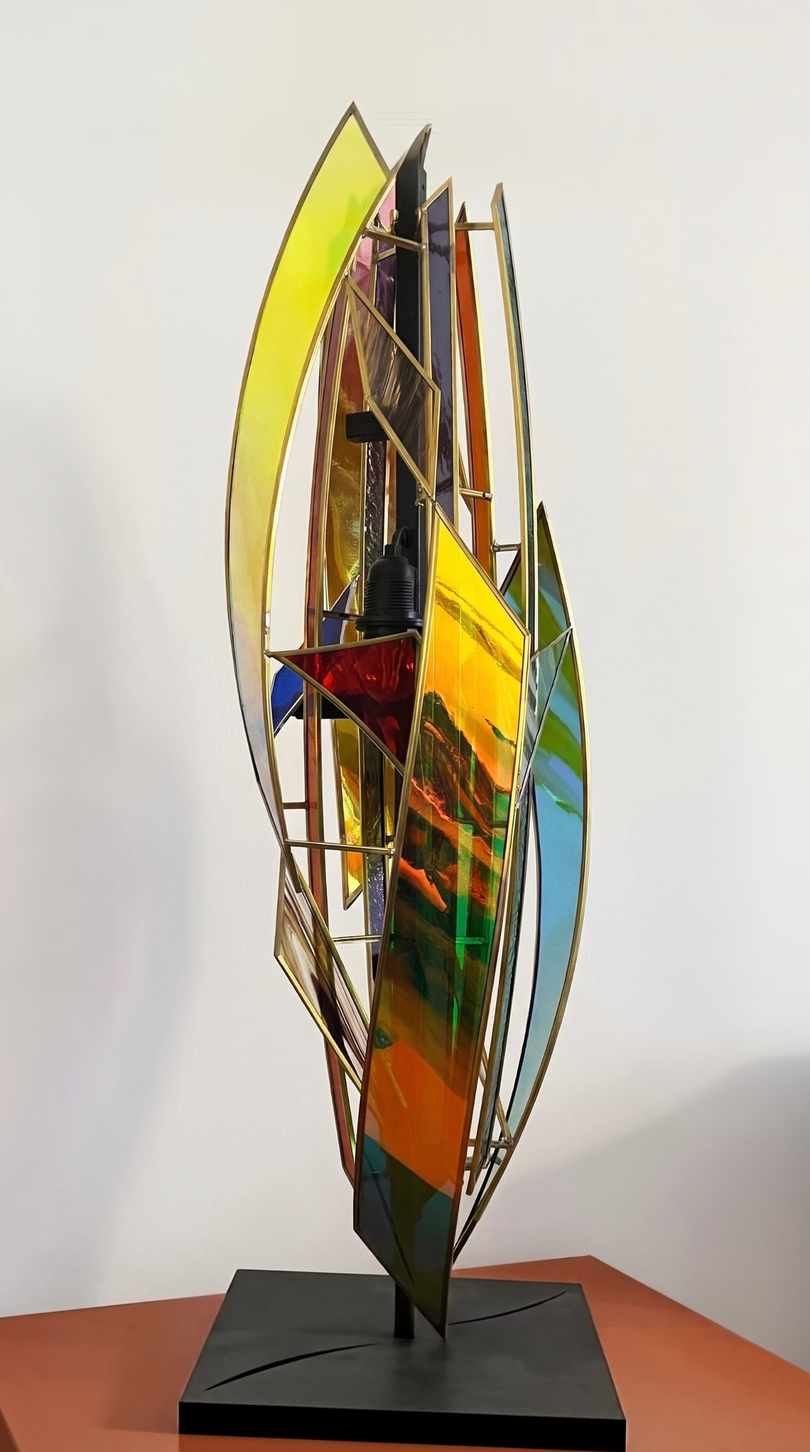
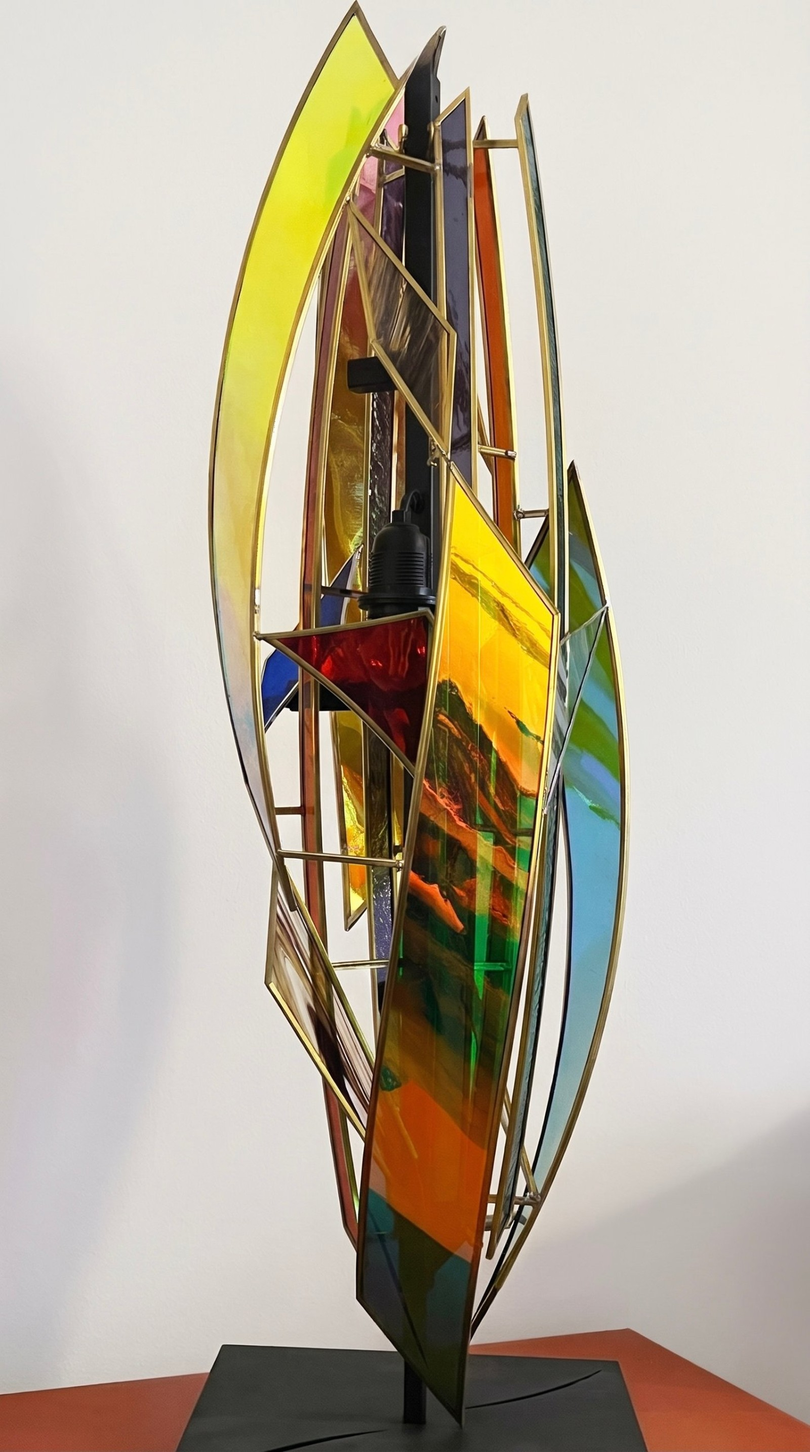
Fish Lamp: Arthi's new higher-quality photo (1438x2576), image version v3
Claude-Session: https://claude.ai/code/session_01H5rr4vyQfECm49aUQdYU3c

diff --git a/de/gallery/fish-lamp/index.html b/de/gallery/fish-lamp/index.html
@@ -19,7 +19,7 @@
     <meta property="og:title" content="Fish Lamp — Glaskunst von Arthemii Ionaere">
     <meta property="og:description" content="Eine Lampenskulptur aus dem Projekt Glass Parts Sculpting: farbiges Glas und Glas mit dichroitischer Folie auf einem Rahmen montiert, mit zwei…">
     <meta property="og:url" content="https://ionaere.com/de/gallery/fish-lamp/">
-    <meta property="og:image" content="https://ionaere.com/img/opt/2024-05-Screenshot-2024-05-13-at-21.58.20-1600.jpg?v=2">
+    <meta property="og:image" content="https://ionaere.com/img/opt/2024-05-Screenshot-2024-05-13-at-21.58.20-1600.jpg?v=3">
     <meta name="twitter:card" content="summary_large_image">
     <link rel="preconnect" href="https://fonts.googleapis.com">
     <link rel="preconnect" href="https://fonts.gstatic.com" crossorigin>
@@ -36,7 +36,7 @@
         }
     </style>
     <script type="application/ld+json">
-{"@context": "https://schema.org", "@type": "VisualArtwork", "name": "Fish Lamp", "url": "https://ionaere.com/de/gallery/fish-lamp/", "image": "https://ionaere.com/img/opt/2024-05-Screenshot-2024-05-13-at-21.58.20-1600.jpg?v=2", "description": "Eine Lampenskulptur aus dem Projekt Glass Parts Sculpting: farbiges Glas und Glas mit dichroitischer Folie auf einem Rahmen montiert, mit zwei eingebauten Lampen. Sie kann senkrecht stehen, waagerecht liegen oder an der Wand montiert werden.", "artform": "Stained glass", "artMedium": "Glass", "creator": {"@type": "Person", "@id": "https://ionaere.com/#artist", "name": "Arthemii Ionaere", "url": "https://ionaere.com/"}}
+{"@context": "https://schema.org", "@type": "VisualArtwork", "name": "Fish Lamp", "url": "https://ionaere.com/de/gallery/fish-lamp/", "image": "https://ionaere.com/img/opt/2024-05-Screenshot-2024-05-13-at-21.58.20-1600.jpg?v=3", "description": "Eine Lampenskulptur aus dem Projekt Glass Parts Sculpting: farbiges Glas und Glas mit dichroitischer Folie auf einem Rahmen montiert, mit zwei eingebauten Lampen. Sie kann senkrecht stehen, waagerecht liegen oder an der Wand montiert werden.", "artform": "Stained glass", "artMedium": "Glass", "creator": {"@type": "Person", "@id": "https://ionaere.com/#artist", "name": "Arthemii Ionaere", "url": "https://ionaere.com/"}}
     </script>
 </head>
 <body>
@@ -88,7 +88,7 @@
             <div class="container" style="max-width:1000px">
                 <a href="../" style="font-size:0.875rem;color:var(--text-secondary);display:inline-block;margin-bottom:var(--spacing-md)">← Zurück zur Galerie</a>
                 <div class="photo-view" style="border-radius:12px;overflow:hidden;margin-bottom:var(--spacing-md);background:var(--bg-alt)">
-                    <picture><source type="image/webp" srcset="../../../img/opt/2024-05-Screenshot-2024-05-13-at-21.58.20-800.webp?v=2 800w, ../../../img/opt/2024-05-Screenshot-2024-05-13-at-21.58.20-1600.webp?v=2 1600w, ../../../img/opt/2024-05-Screenshot-2024-05-13-at-21.58.20-2400.webp?v=2 2400w" sizes="(max-width: 1000px) 100vw, 1000px"><img src="../../../img/opt/2024-05-Screenshot-2024-05-13-at-21.58.20-1600.jpg?v=2" alt="Fish Lamp — Arthemii Ionaere" style="width:100%;display:block"></picture>
+                    <picture><source type="image/webp" srcset="../../../img/opt/2024-05-Screenshot-2024-05-13-at-21.58.20-800.webp?v=3 800w, ../../../img/opt/2024-05-Screenshot-2024-05-13-at-21.58.20-1600.webp?v=3 1600w, ../../../img/opt/2024-05-Screenshot-2024-05-13-at-21.58.20-2400.webp?v=3 2400w" sizes="(max-width: 1000px) 100vw, 1000px"><img src="../../../img/opt/2024-05-Screenshot-2024-05-13-at-21.58.20-1600.jpg?v=3" alt="Fish Lamp — Arthemii Ionaere" style="width:100%;display:block"></picture>
                     <a class="photo-view__arrow photo-view__arrow--prev" href="../huerrytop-sculpture/" rel="prev" aria-label="Previous photo: Glass Parts Nr. 2"><svg viewBox="0 0 24 24" aria-hidden="true"><path d="M15 5l-7 7 7 7"/></svg></a>
                     <a class="photo-view__arrow photo-view__arrow--next" href="../exhibition-piece/" rel="next" aria-label="Next photo: Epsilon Y"><svg viewBox="0 0 24 24" aria-hidden="true"><path d="M9 5l7 7-7 7"/></svg></a>
                 </div>

diff --git a/it/gallery/fish-lamp/index.html b/it/gallery/fish-lamp/index.html
@@ -19,7 +19,7 @@
     <meta property="og:title" content="Fish Lamp — Vetrata artistica di Arthemii Ionaere">
     <meta property="og:description" content="Una scultura-lampada del progetto Glass Parts Sculpting: vetro colorato e vetro con pellicola dicroica montati su un&#x27;unica struttura, con due lampade…">
     <meta property="og:url" content="https://ionaere.com/it/gallery/fish-lamp/">
-    <meta property="og:image" content="https://ionaere.com/img/opt/2024-05-Screenshot-2024-05-13-at-21.58.20-1600.jpg?v=2">
+    <meta property="og:image" content="https://ionaere.com/img/opt/2024-05-Screenshot-2024-05-13-at-21.58.20-1600.jpg?v=3">
     <meta name="twitter:card" content="summary_large_image">
     <link rel="preconnect" href="https://fonts.googleapis.com">
     <link rel="preconnect" href="https://fonts.gstatic.com" crossorigin>
@@ -36,7 +36,7 @@
         }
     </style>
     <script type="application/ld+json">
-{"@context": "https://schema.org", "@type": "VisualArtwork", "name": "Fish Lamp", "url": "https://ionaere.com/it/gallery/fish-lamp/", "image": "https://ionaere.com/img/opt/2024-05-Screenshot-2024-05-13-at-21.58.20-1600.jpg?v=2", "description": "Una scultura-lampada del progetto Glass Parts Sculpting: vetro colorato e vetro con pellicola dicroica montati su un'unica struttura, con due lampade integrate. Può stare in verticale, in orizzontale o essere fissata a parete.", "artform": "Stained glass", "artMedium": "Glass", "creator": {"@type": "Person", "@id": "https://ionaere.com/#artist", "name": "Arthemii Ionaere", "url": "https://ionaere.com/"}}
+{"@context": "https://schema.org", "@type": "VisualArtwork", "name": "Fish Lamp", "url": "https://ionaere.com/it/gallery/fish-lamp/", "image": "https://ionaere.com/img/opt/2024-05-Screenshot-2024-05-13-at-21.58.20-1600.jpg?v=3", "description": "Una scultura-lampada del progetto Glass Parts Sculpting: vetro colorato e vetro con pellicola dicroica montati su un'unica struttura, con due lampade integrate. Può stare in verticale, in orizzontale o essere fissata a parete.", "artform": "Stained glass", "artMedium": "Glass", "creator": {"@type": "Person", "@id": "https://ionaere.com/#artist", "name": "Arthemii Ionaere", "url": "https://ionaere.com/"}}
     </script>
 </head>
 <body>
@@ -88,7 +88,7 @@
             <div class="container" style="max-width:1000px">
                 <a href="../" style="font-size:0.875rem;color:var(--text-secondary);display:inline-block;margin-bottom:var(--spacing-md)">← Torna alla galleria</a>
                 <div class="photo-view" style="border-radius:12px;overflow:hidden;margin-bottom:var(--spacing-md);background:var(--bg-alt)">
-                    <picture><source type="image/webp" srcset="../../../img/opt/2024-05-Screenshot-2024-05-13-at-21.58.20-800.webp?v=2 800w, ../../../img/opt/2024-05-Screenshot-2024-05-13-at-21.58.20-1600.webp?v=2 1600w, ../../../img/opt/2024-05-Screenshot-2024-05-13-at-21.58.20-2400.webp?v=2 2400w" sizes="(max-width: 1000px) 100vw, 1000px"><img src="../../../img/opt/2024-05-Screenshot-2024-05-13-at-21.58.20-1600.jpg?v=2" alt="Fish Lamp — Arthemii Ionaere" style="width:100%;display:block"></picture>
+                    <picture><source type="image/webp" srcset="../../../img/opt/2024-05-Screenshot-2024-05-13-at-21.58.20-800.webp?v=3 800w, ../../../img/opt/2024-05-Screenshot-2024-05-13-at-21.58.20-1600.webp?v=3 1600w, ../../../img/opt/2024-05-Screenshot-2024-05-13-at-21.58.20-2400.webp?v=3 2400w" sizes="(max-width: 1000px) 100vw, 1000px"><img src="../../../img/opt/2024-05-Screenshot-2024-05-13-at-21.58.20-1600.jpg?v=3" alt="Fish Lamp — Arthemii Ionaere" style="width:100%;display:block"></picture>
                     <a class="photo-view__arrow photo-view__arrow--prev" href="../huerrytop-sculpture/" rel="prev" aria-label="Previous photo: Glass Parts n. 2"><svg viewBox="0 0 24 24" aria-hidden="true"><path d="M15 5l-7 7 7 7"/></svg></a>
                     <a class="photo-view__arrow photo-view__arrow--next" href="../exhibition-piece/" rel="next" aria-label="Next photo: Epsilon Y"><svg viewBox="0 0 24 24" aria-hidden="true"><path d="M9 5l7 7-7 7"/></svg></a>
                 </div>

diff --git a/es/gallery/fish-lamp/index.html b/es/gallery/fish-lamp/index.html
@@ -19,7 +19,7 @@
     <meta property="og:title" content="Fish Lamp — Vitral de Arthemii Ionaere">
     <meta property="og:description" content="Una escultura-lámpara del proyecto Glass Parts Sculpting: vidrio de color y vidrio con película dicroica montados sobre una estructura, con dos…">
     <meta property="og:url" content="https://ionaere.com/es/gallery/fish-lamp/">
-    <meta property="og:image" content="https://ionaere.com/img/opt/2024-05-Screenshot-2024-05-13-at-21.58.20-1600.jpg?v=2">
+    <meta property="og:image" content="https://ionaere.com/img/opt/2024-05-Screenshot-2024-05-13-at-21.58.20-1600.jpg?v=3">
     <meta name="twitter:card" content="summary_large_image">
     <link rel="preconnect" href="https://fonts.googleapis.com">
     <link rel="preconnect" href="https://fonts.gstatic.com" crossorigin>
@@ -36,7 +36,7 @@
         }
     </style>
     <script type="application/ld+json">
-{"@context": "https://schema.org", "@type": "VisualArtwork", "name": "Fish Lamp", "url": "https://ionaere.com/es/gallery/fish-lamp/", "image": "https://ionaere.com/img/opt/2024-05-Screenshot-2024-05-13-at-21.58.20-1600.jpg?v=2", "description": "Una escultura-lámpara del proyecto Glass Parts Sculpting: vidrio de color y vidrio con película dicroica montados sobre una estructura, con dos lámparas integradas. Puede colocarse en vertical, en horizontal o montarse en la pared.", "artform": "Stained glass", "artMedium": "Glass", "creator": {"@type": "Person", "@id": "https://ionaere.com/#artist", "name": "Arthemii Ionaere", "url": "https://ionaere.com/"}}
+{"@context": "https://schema.org", "@type": "VisualArtwork", "name": "Fish Lamp", "url": "https://ionaere.com/es/gallery/fish-lamp/", "image": "https://ionaere.com/img/opt/2024-05-Screenshot-2024-05-13-at-21.58.20-1600.jpg?v=3", "description": "Una escultura-lámpara del proyecto Glass Parts Sculpting: vidrio de color y vidrio con película dicroica montados sobre una estructura, con dos lámparas integradas. Puede colocarse en vertical, en horizontal o montarse en la pared.", "artform": "Stained glass", "artMedium": "Glass", "creator": {"@type": "Person", "@id": "https://ionaere.com/#artist", "name": "Arthemii Ionaere", "url": "https://ionaere.com/"}}
     </script>
 </head>
 <body>
@@ -88,7 +88,7 @@
             <div class="container" style="max-width:1000px">
                 <a href="../" style="font-size:0.875rem;color:var(--text-secondary);display:inline-block;margin-bottom:var(--spacing-md)">← Volver a la galería</a>
                 <div class="photo-view" style="border-radius:12px;overflow:hidden;margin-bottom:var(--spacing-md);background:var(--bg-alt)">
-                    <picture><source type="image/webp" srcset="../../../img/opt/2024-05-Screenshot-2024-05-13-at-21.58.20-800.webp?v=2 800w, ../../../img/opt/2024-05-Screenshot-2024-05-13-at-21.58.20-1600.webp?v=2 1600w, ../../../img/opt/2024-05-Screenshot-2024-05-13-at-21.58.20-2400.webp?v=2 2400w" sizes="(max-width: 1000px) 100vw, 1000px"><img src="../../../img/opt/2024-05-Screenshot-2024-05-13-at-21.58.20-1600.jpg?v=2" alt="Fish Lamp — Arthemii Ionaere" style="width:100%;display:block"></picture>
+                    <picture><source type="image/webp" srcset="../../../img/opt/2024-05-Screenshot-2024-05-13-at-21.58.20-800.webp?v=3 800w, ../../../img/opt/2024-05-Screenshot-2024-05-13-at-21.58.20-1600.webp?v=3 1600w, ../../../img/opt/2024-05-Screenshot-2024-05-13-at-21.58.20-2400.webp?v=3 2400w" sizes="(max-width: 1000px) 100vw, 1000px"><img src="../../../img/opt/2024-05-Screenshot-2024-05-13-at-21.58.20-1600.jpg?v=3" alt="Fish Lamp — Arthemii Ionaere" style="width:100%;display:block"></picture>
                     <a class="photo-view__arrow photo-view__arrow--prev" href="../huerrytop-sculpture/" rel="prev" aria-label="Previous photo: Glass Parts n.º 2"><svg viewBox="0 0 24 24" aria-hidden="true"><path d="M15 5l-7 7 7 7"/></svg></a>
                     <a class="photo-view__arrow photo-view__arrow--next" href="../exhibition-piece/" rel="next" aria-label="Next photo: Epsilon Y"><svg viewBox="0 0 24 24" aria-hidden="true"><path d="M9 5l7 7-7 7"/></svg></a>
                 </div>

diff --git a/fr/gallery/fish-lamp/index.html b/fr/gallery/fish-lamp/index.html
@@ -19,7 +19,7 @@
     <meta property="og:title" content="Fish Lamp — Vitrail d&#x27;Arthemii Ionaere">
     <meta property="og:description" content="Une sculpture-lampe du projet Glass Parts Sculpting : verre coloré et verre à film dichroïque assemblés sur une structure, avec deux lampes…">
     <meta property="og:url" content="https://ionaere.com/fr/gallery/fish-lamp/">
-    <meta property="og:image" content="https://ionaere.com/img/opt/2024-05-Screenshot-2024-05-13-at-21.58.20-1600.jpg?v=2">
+    <meta property="og:image" content="https://ionaere.com/img/opt/2024-05-Screenshot-2024-05-13-at-21.58.20-1600.jpg?v=3">
     <meta name="twitter:card" content="summary_large_image">
     <link rel="preconnect" href="https://fonts.googleapis.com">
     <link rel="preconnect" href="https://fonts.gstatic.com" crossorigin>
@@ -36,7 +36,7 @@
         }
     </style>
     <script type="application/ld+json">
-{"@context": "https://schema.org", "@type": "VisualArtwork", "name": "Fish Lamp", "url": "https://ionaere.com/fr/gallery/fish-lamp/", "image": "https://ionaere.com/img/opt/2024-05-Screenshot-2024-05-13-at-21.58.20-1600.jpg?v=2", "description": "Une sculpture-lampe du projet Glass Parts Sculpting : verre coloré et verre à film dichroïque assemblés sur une structure, avec deux lampes intégrées. Elle peut être posée verticalement, horizontalement ou fixée au mur.", "artform": "Stained glass", "artMedium": "Glass", "creator": {"@type": "Person", "@id": "https://ionaere.com/#artist", "name": "Arthemii Ionaere", "url": "https://ionaere.com/"}}
+{"@context": "https://schema.org", "@type": "VisualArtwork", "name": "Fish Lamp", "url": "https://ionaere.com/fr/gallery/fish-lamp/", "image": "https://ionaere.com/img/opt/2024-05-Screenshot-2024-05-13-at-21.58.20-1600.jpg?v=3", "description": "Une sculpture-lampe du projet Glass Parts Sculpting : verre coloré et verre à film dichroïque assemblés sur une structure, avec deux lampes intégrées. Elle peut être posée verticalement, horizontalement ou fixée au mur.", "artform": "Stained glass", "artMedium": "Glass", "creator": {"@type": "Person", "@id": "https://ionaere.com/#artist", "name": "Arthemii Ionaere", "url": "https://ionaere.com/"}}
     </script>
 </head>
 <body>
@@ -88,7 +88,7 @@
             <div class="container" style="max-width:1000px">
                 <a href="../" style="font-size:0.875rem;color:var(--text-secondary);display:inline-block;margin-bottom:var(--spacing-md)">← Retour à la galerie</a>
                 <div class="photo-view" style="border-radius:12px;overflow:hidden;margin-bottom:var(--spacing-md);background:var(--bg-alt)">
-                    <picture><source type="image/webp" srcset="../../../img/opt/2024-05-Screenshot-2024-05-13-at-21.58.20-800.webp?v=2 800w, ../../../img/opt/2024-05-Screenshot-2024-05-13-at-21.58.20-1600.webp?v=2 1600w, ../../../img/opt/2024-05-Screenshot-2024-05-13-at-21.58.20-2400.webp?v=2 2400w" sizes="(max-width: 1000px) 100vw, 1000px"><img src="../../../img/opt/2024-05-Screenshot-2024-05-13-at-21.58.20-1600.jpg?v=2" alt="Fish Lamp — Arthemii Ionaere" style="width:100%;display:block"></picture>
+                    <picture><source type="image/webp" srcset="../../../img/opt/2024-05-Screenshot-2024-05-13-at-21.58.20-800.webp?v=3 800w, ../../../img/opt/2024-05-Screenshot-2024-05-13-at-21.58.20-1600.webp?v=3 1600w, ../../../img/opt/2024-05-Screenshot-2024-05-13-at-21.58.20-2400.webp?v=3 2400w" sizes="(max-width: 1000px) 100vw, 1000px"><img src="../../../img/opt/2024-05-Screenshot-2024-05-13-at-21.58.20-1600.jpg?v=3" alt="Fish Lamp — Arthemii Ionaere" style="width:100%;display:block"></picture>
                     <a class="photo-view__arrow photo-view__arrow--prev" href="../huerrytop-sculpture/" rel="prev" aria-label="Previous photo: Glass Parts n° 2"><svg viewBox="0 0 24 24" aria-hidden="true"><path d="M15 5l-7 7 7 7"/></svg></a>
                     <a class="photo-view__arrow photo-view__arrow--next" href="../exhibition-piece/" rel="next" aria-label="Next photo: Epsilon Y"><svg viewBox="0 0 24 24" aria-hidden="true"><path d="M9 5l7 7-7 7"/></svg></a>
                 </div>

diff --git a/gallery/fish-lamp/index.html b/gallery/fish-lamp/index.html
@@ -19,7 +19,7 @@
     <meta property="og:title" content="Fish Lamp — Stained Glass Art by Arthemii Ionaere">
     <meta property="og:description" content="A lamp sculpture from the Glass Parts Sculpting project: coloured glass and glass with dichroic film assembled on one frame, with two built-in lamps.…">
     <meta property="og:url" content="https://ionaere.com/gallery/fish-lamp/">
-    <meta property="og:image" content="https://ionaere.com/img/opt/2024-05-Screenshot-2024-05-13-at-21.58.20-1600.jpg?v=2">
+    <meta property="og:image" content="https://ionaere.com/img/opt/2024-05-Screenshot-2024-05-13-at-21.58.20-1600.jpg?v=3">
     <meta name="twitter:card" content="summary_large_image">
     <link rel="preconnect" href="https://fonts.googleapis.com">
     <link rel="preconnect" href="https://fonts.gstatic.com" crossorigin>
@@ -36,7 +36,7 @@
         }
     </style>
     <script type="application/ld+json">
-{"@context": "https://schema.org", "@type": "VisualArtwork", "name": "Fish Lamp", "url": "https://ionaere.com/gallery/fish-lamp/", "image": "https://ionaere.com/img/opt/2024-05-Screenshot-2024-05-13-at-21.58.20-1600.jpg?v=2", "description": "A lamp sculpture from the Glass Parts Sculpting project: coloured glass and glass with dichroic film assembled on one frame, with two built-in lamps. It can stand upright, lie horizontally or be mounted on a wall.", "artform": "Stained glass", "artMedium": "Glass", "creator": {"@type": "Person", "@id": "https://ionaere.com/#artist", "name": "Arthemii Ionaere", "url": "https://ionaere.com/"}}
+{"@context": "https://schema.org", "@type": "VisualArtwork", "name": "Fish Lamp", "url": "https://ionaere.com/gallery/fish-lamp/", "image": "https://ionaere.com/img/opt/2024-05-Screenshot-2024-05-13-at-21.58.20-1600.jpg?v=3", "description": "A lamp sculpture from the Glass Parts Sculpting project: coloured glass and glass with dichroic film assembled on one frame, with two built-in lamps. It can stand upright, lie horizontally or be mounted on a wall.", "artform": "Stained glass", "artMedium": "Glass", "creator": {"@type": "Person", "@id": "https://ionaere.com/#artist", "name": "Arthemii Ionaere", "url": "https://ionaere.com/"}}
     </script>
 </head>
 <body>
@@ -88,7 +88,7 @@
             <div class="container" style="max-width:1000px">
                 <a href="../" style="font-size:0.875rem;color:var(--text-secondary);display:inline-block;margin-bottom:var(--spacing-md)">&larr; Back to Gallery</a>
                 <div class="photo-view" style="border-radius:12px;overflow:hidden;margin-bottom:var(--spacing-md);background:var(--bg-alt)">
-                    <picture><source type="image/webp" srcset="../../img/opt/2024-05-Screenshot-2024-05-13-at-21.58.20-800.webp?v=2 800w, ../../img/opt/2024-05-Screenshot-2024-05-13-at-21.58.20-1600.webp?v=2 1600w, ../../img/opt/2024-05-Screenshot-2024-05-13-at-21.58.20-2400.webp?v=2 2400w" sizes="(max-width: 1000px) 100vw, 1000px"><img src="../../img/opt/2024-05-Screenshot-2024-05-13-at-21.58.20-1600.jpg?v=2" alt="Fish Lamp — Arthemii Ionaere" style="width:100%;display:block"></picture>
+                    <picture><source type="image/webp" srcset="../../img/opt/2024-05-Screenshot-2024-05-13-at-21.58.20-800.webp?v=3 800w, ../../img/opt/2024-05-Screenshot-2024-05-13-at-21.58.20-1600.webp?v=3 1600w, ../../img/opt/2024-05-Screenshot-2024-05-13-at-21.58.20-2400.webp?v=3 2400w" sizes="(max-width: 1000px) 100vw, 1000px"><img src="../../img/opt/2024-05-Screenshot-2024-05-13-at-21.58.20-1600.jpg?v=3" alt="Fish Lamp — Arthemii Ionaere" style="width:100%;display:block"></picture>
                     <a class="photo-view__arrow photo-view__arrow--prev" href="../huerrytop-sculpture/" rel="prev" aria-label="Previous photo: Glass Parts No. 2"><svg viewBox="0 0 24 24" aria-hidden="true"><path d="M15 5l-7 7 7 7"/></svg></a>
                     <a class="photo-view__arrow photo-view__arrow--next" href="../exhibition-piece/" rel="next" aria-label="Next photo: Epsilon Y"><svg viewBox="0 0 24 24" aria-hidden="true"><path d="M9 5l7 7-7 7"/></svg></a>
                 </div>

diff --git a/de/projects/index.html b/de/projects/index.html
@@ -217,7 +217,7 @@
                         </div>
                         <div class="tech-gallery">
                             <div class="tech-block__photo" style="--r:0.75"><picture><source type="image/webp" srcset="../../img/opt/2024-02-23b3926c-da00-4b16-af7b-1eee929d9fb8-800.webp 800w, ../../img/opt/2024-02-23b3926c-da00-4b16-af7b-1eee929d9fb8-1600.webp 1600w, ../../img/opt/2024-02-23b3926c-da00-4b16-af7b-1eee929d9fb8-2400.webp 2400w" sizes="(max-width: 640px) 80vw, 600px"><img src="../../img/opt/2024-02-23b3926c-da00-4b16-af7b-1eee929d9fb8-1600.jpg" alt="Finished form — Epsilon S, stained glass by Arthemii Ionaere" loading="lazy" decoding="async"></picture></div>
-                            <div class="tech-block__photo" style="--r:0.558"><picture><source type="image/webp" srcset="../../img/opt/2024-05-Screenshot-2024-05-13-at-21.58.20-800.webp?v=2 800w, ../../img/opt/2024-05-Screenshot-2024-05-13-at-21.58.20-1600.webp?v=2 1600w, ../../img/opt/2024-05-Screenshot-2024-05-13-at-21.58.20-2400.webp?v=2 2400w" sizes="(max-width: 640px) 80vw, 600px"><img src="../../img/opt/2024-05-Screenshot-2024-05-13-at-21.58.20-1600.jpg?v=2" alt="Detail — Epsilon S, stained glass by Arthemii Ionaere" loading="lazy" decoding="async"></picture></div>
+                            <div class="tech-block__photo" style="--r:0.558"><picture><source type="image/webp" srcset="../../img/opt/2024-05-Screenshot-2024-05-13-at-21.58.20-800.webp?v=3 800w, ../../img/opt/2024-05-Screenshot-2024-05-13-at-21.58.20-1600.webp?v=3 1600w, ../../img/opt/2024-05-Screenshot-2024-05-13-at-21.58.20-2400.webp?v=3 2400w" sizes="(max-width: 640px) 80vw, 600px"><img src="../../img/opt/2024-05-Screenshot-2024-05-13-at-21.58.20-1600.jpg?v=3" alt="Detail — Epsilon S, stained glass by Arthemii Ionaere" loading="lazy" decoding="async"></picture></div>
                             <div class="tech-block__photo" style="--r:1.333"><picture><source type="image/webp" srcset="../../img/opt/2024-05-Screenshot-2024-05-13-at-22.25.18-800.webp 800w, ../../img/opt/2024-05-Screenshot-2024-05-13-at-22.25.18-1600.webp 1600w, ../../img/opt/2024-05-Screenshot-2024-05-13-at-22.25.18-2400.webp 2400w" sizes="(max-width: 640px) 80vw, 600px"><img src="../../img/opt/2024-05-Screenshot-2024-05-13-at-22.25.18-1600.jpg" alt="Glass parts — Epsilon S, stained glass by Arthemii Ionaere" loading="lazy" decoding="async"></picture></div>
                             <div class="tech-block__photo" style="--r:1.339"><picture><source type="image/webp" srcset="../../img/opt/2024-05-IMG_7517-800.webp 800w, ../../img/opt/2024-05-IMG_7517-1600.webp 1600w, ../../img/opt/2024-05-IMG_7517-2400.webp 2400w" sizes="(max-width: 640px) 80vw, 600px"><img src="../../img/opt/2024-05-IMG_7517-1600.jpg" alt="Soldering process — Epsilon S, stained glass by Arthemii Ionaere" loading="lazy" decoding="async"></picture></div>
                             <div class="tech-block__photo" style="--r:1.339"><picture><source type="image/webp" srcset="../../img/opt/2024-05-Screenshot-2024-05-13-at-21.58.05-800.webp 800w, ../../img/opt/2024-05-Screenshot-2024-05-13-at-21.58.05-1600.webp 1600w, ../../img/opt/2024-05-Screenshot-2024-05-13-at-21.58.05-2400.webp 2400w" sizes="(max-width: 640px) 80vw, 600px"><img src="../../img/opt/2024-05-Screenshot-2024-05-13-at-21.58.05-1600.jpg" alt="Assembly — Epsilon S, stained glass by Arthemii Ionaere" loading="lazy" decoding="async"></picture></div>

diff --git a/es/projects/index.html b/es/projects/index.html
@@ -217,7 +217,7 @@
                         </div>
                         <div class="tech-gallery">
                             <div class="tech-block__photo" style="--r:0.75"><picture><source type="image/webp" srcset="../../img/opt/2024-02-23b3926c-da00-4b16-af7b-1eee929d9fb8-800.webp 800w, ../../img/opt/2024-02-23b3926c-da00-4b16-af7b-1eee929d9fb8-1600.webp 1600w, ../../img/opt/2024-02-23b3926c-da00-4b16-af7b-1eee929d9fb8-2400.webp 2400w" sizes="(max-width: 640px) 80vw, 600px"><img src="../../img/opt/2024-02-23b3926c-da00-4b16-af7b-1eee929d9fb8-1600.jpg" alt="Finished form — Epsilon S, stained glass by Arthemii Ionaere" loading="lazy" decoding="async"></picture></div>
-                            <div class="tech-block__photo" style="--r:0.558"><picture><source type="image/webp" srcset="../../img/opt/2024-05-Screenshot-2024-05-13-at-21.58.20-800.webp?v=2 800w, ../../img/opt/2024-05-Screenshot-2024-05-13-at-21.58.20-1600.webp?v=2 1600w, ../../img/opt/2024-05-Screenshot-2024-05-13-at-21.58.20-2400.webp?v=2 2400w" sizes="(max-width: 640px) 80vw, 600px"><img src="../../img/opt/2024-05-Screenshot-2024-05-13-at-21.58.20-1600.jpg?v=2" alt="Detail — Epsilon S, stained glass by Arthemii Ionaere" loading="lazy" decoding="async"></picture></div>
+                            <div class="tech-block__photo" style="--r:0.558"><picture><source type="image/webp" srcset="../../img/opt/2024-05-Screenshot-2024-05-13-at-21.58.20-800.webp?v=3 800w, ../../img/opt/2024-05-Screenshot-2024-05-13-at-21.58.20-1600.webp?v=3 1600w, ../../img/opt/2024-05-Screenshot-2024-05-13-at-21.58.20-2400.webp?v=3 2400w" sizes="(max-width: 640px) 80vw, 600px"><img src="../../img/opt/2024-05-Screenshot-2024-05-13-at-21.58.20-1600.jpg?v=3" alt="Detail — Epsilon S, stained glass by Arthemii Ionaere" loading="lazy" decoding="async"></picture></div>
                             <div class="tech-block__photo" style="--r:1.333"><picture><source type="image/webp" srcset="../../img/opt/2024-05-Screenshot-2024-05-13-at-22.25.18-800.webp 800w, ../../img/opt/2024-05-Screenshot-2024-05-13-at-22.25.18-1600.webp 1600w, ../../img/opt/2024-05-Screenshot-2024-05-13-at-22.25.18-2400.webp 2400w" sizes="(max-width: 640px) 80vw, 600px"><img src="../../img/opt/2024-05-Screenshot-2024-05-13-at-22.25.18-1600.jpg" alt="Glass parts — Epsilon S, stained glass by Arthemii Ionaere" loading="lazy" decoding="async"></picture></div>
                             <div class="tech-block__photo" style="--r:1.339"><picture><source type="image/webp" srcset="../../img/opt/2024-05-IMG_7517-800.webp 800w, ../../img/opt/2024-05-IMG_7517-1600.webp 1600w, ../../img/opt/2024-05-IMG_7517-2400.webp 2400w" sizes="(max-width: 640px) 80vw, 600px"><img src="../../img/opt/2024-05-IMG_7517-1600.jpg" alt="Soldering process — Epsilon S, stained glass by Arthemii Ionaere" loading="lazy" decoding="async"></picture></div>
                             <div class="tech-block__photo" style="--r:1.339"><picture><source type="image/webp" srcset="../../img/opt/2024-05-Screenshot-2024-05-13-at-21.58.05-800.webp 800w, ../../img/opt/2024-05-Screenshot-2024-05-13-at-21.58.05-1600.webp 1600w, ../../img/opt/2024-05-Screenshot-2024-05-13-at-21.58.05-2400.webp 2400w" sizes="(max-width: 640px) 80vw, 600px"><img src="../../img/opt/2024-05-Screenshot-2024-05-13-at-21.58.05-1600.jpg" alt="Assembly — Epsilon S, stained glass by Arthemii Ionaere" loading="lazy" decoding="async"></picture></div>

diff --git a/fr/projects/index.html b/fr/projects/index.html
@@ -217,7 +217,7 @@
                         </div>
                         <div class="tech-gallery">
                             <div class="tech-block__photo" style="--r:0.75"><picture><source type="image/webp" srcset="../../img/opt/2024-02-23b3926c-da00-4b16-af7b-1eee929d9fb8-800.webp 800w, ../../img/opt/2024-02-23b3926c-da00-4b16-af7b-1eee929d9fb8-1600.webp 1600w, ../../img/opt/2024-02-23b3926c-da00-4b16-af7b-1eee929d9fb8-2400.webp 2400w" sizes="(max-width: 640px) 80vw, 600px"><img src="../../img/opt/2024-02-23b3926c-da00-4b16-af7b-1eee929d9fb8-1600.jpg" alt="Finished form — Epsilon S, stained glass by Arthemii Ionaere" loading="lazy" decoding="async"></picture></div>
-                            <div class="tech-block__photo" style="--r:0.558"><picture><source type="image/webp" srcset="../../img/opt/2024-05-Screenshot-2024-05-13-at-21.58.20-800.webp?v=2 800w, ../../img/opt/2024-05-Screenshot-2024-05-13-at-21.58.20-1600.webp?v=2 1600w, ../../img/opt/2024-05-Screenshot-2024-05-13-at-21.58.20-2400.webp?v=2 2400w" sizes="(max-width: 640px) 80vw, 600px"><img src="../../img/opt/2024-05-Screenshot-2024-05-13-at-21.58.20-1600.jpg?v=2" alt="Detail — Epsilon S, stained glass by Arthemii Ionaere" loading="lazy" decoding="async"></picture></div>
+                            <div class="tech-block__photo" style="--r:0.558"><picture><source type="image/webp" srcset="../../img/opt/2024-05-Screenshot-2024-05-13-at-21.58.20-800.webp?v=3 800w, ../../img/opt/2024-05-Screenshot-2024-05-13-at-21.58.20-1600.webp?v=3 1600w, ../../img/opt/2024-05-Screenshot-2024-05-13-at-21.58.20-2400.webp?v=3 2400w" sizes="(max-width: 640px) 80vw, 600px"><img src="../../img/opt/2024-05-Screenshot-2024-05-13-at-21.58.20-1600.jpg?v=3" alt="Detail — Epsilon S, stained glass by Arthemii Ionaere" loading="lazy" decoding="async"></picture></div>
                             <div class="tech-block__photo" style="--r:1.333"><picture><source type="image/webp" srcset="../../img/opt/2024-05-Screenshot-2024-05-13-at-22.25.18-800.webp 800w, ../../img/opt/2024-05-Screenshot-2024-05-13-at-22.25.18-1600.webp 1600w, ../../img/opt/2024-05-Screenshot-2024-05-13-at-22.25.18-2400.webp 2400w" sizes="(max-width: 640px) 80vw, 600px"><img src="../../img/opt/2024-05-Screenshot-2024-05-13-at-22.25.18-1600.jpg" alt="Glass parts — Epsilon S, stained glass by Arthemii Ionaere" loading="lazy" decoding="async"></picture></div>
                             <div class="tech-block__photo" style="--r:1.339"><picture><source type="image/webp" srcset="../../img/opt/2024-05-IMG_7517-800.webp 800w, ../../img/opt/2024-05-IMG_7517-1600.webp 1600w, ../../img/opt/2024-05-IMG_7517-2400.webp 2400w" sizes="(max-width: 640px) 80vw, 600px"><img src="../../img/opt/2024-05-IMG_7517-1600.jpg" alt="Soldering process — Epsilon S, stained glass by Arthemii Ionaere" loading="lazy" decoding="async"></picture></div>
                             <div class="tech-block__photo" style="--r:1.339"><picture><source type="image/webp" srcset="../../img/opt/2024-05-Screenshot-2024-05-13-at-21.58.05-800.webp 800w, ../../img/opt/2024-05-Screenshot-2024-05-13-at-21.58.05-1600.webp 1600w, ../../img/opt/2024-05-Screenshot-2024-05-13-at-21.58.05-2400.webp 2400w" sizes="(max-width: 640px) 80vw, 600px"><img src="../../img/opt/2024-05-Screenshot-2024-05-13-at-21.58.05-1600.jpg" alt="Assembly — Epsilon S, stained glass by Arthemii Ionaere" loading="lazy" decoding="async"></picture></div>

diff --git a/it/projects/index.html b/it/projects/index.html
@@ -217,7 +217,7 @@
                         </div>
                         <div class="tech-gallery">
                             <div class="tech-block__photo" style="--r:0.75"><picture><source type="image/webp" srcset="../../img/opt/2024-02-23b3926c-da00-4b16-af7b-1eee929d9fb8-800.webp 800w, ../../img/opt/2024-02-23b3926c-da00-4b16-af7b-1eee929d9fb8-1600.webp 1600w, ../../img/opt/2024-02-23b3926c-da00-4b16-af7b-1eee929d9fb8-2400.webp 2400w" sizes="(max-width: 640px) 80vw, 600px"><img src="../../img/opt/2024-02-23b3926c-da00-4b16-af7b-1eee929d9fb8-1600.jpg" alt="Finished form — Epsilon S, stained glass by Arthemii Ionaere" loading="lazy" decoding="async"></picture></div>
-                            <div class="tech-block__photo" style="--r:0.558"><picture><source type="image/webp" srcset="../../img/opt/2024-05-Screenshot-2024-05-13-at-21.58.20-800.webp?v=2 800w, ../../img/opt/2024-05-Screenshot-2024-05-13-at-21.58.20-1600.webp?v=2 1600w, ../../img/opt/2024-05-Screenshot-2024-05-13-at-21.58.20-2400.webp?v=2 2400w" sizes="(max-width: 640px) 80vw, 600px"><img src="../../img/opt/2024-05-Screenshot-2024-05-13-at-21.58.20-1600.jpg?v=2" alt="Detail — Epsilon S, stained glass by Arthemii Ionaere" loading="lazy" decoding="async"></picture></div>
+                            <div class="tech-block__photo" style="--r:0.558"><picture><source type="image/webp" srcset="../../img/opt/2024-05-Screenshot-2024-05-13-at-21.58.20-800.webp?v=3 800w, ../../img/opt/2024-05-Screenshot-2024-05-13-at-21.58.20-1600.webp?v=3 1600w, ../../img/opt/2024-05-Screenshot-2024-05-13-at-21.58.20-2400.webp?v=3 2400w" sizes="(max-width: 640px) 80vw, 600px"><img src="../../img/opt/2024-05-Screenshot-2024-05-13-at-21.58.20-1600.jpg?v=3" alt="Detail — Epsilon S, stained glass by Arthemii Ionaere" loading="lazy" decoding="async"></picture></div>
                             <div class="tech-block__photo" style="--r:1.333"><picture><source type="image/webp" srcset="../../img/opt/2024-05-Screenshot-2024-05-13-at-22.25.18-800.webp 800w, ../../img/opt/2024-05-Screenshot-2024-05-13-at-22.25.18-1600.webp 1600w, ../../img/opt/2024-05-Screenshot-2024-05-13-at-22.25.18-2400.webp 2400w" sizes="(max-width: 640px) 80vw, 600px"><img src="../../img/opt/2024-05-Screenshot-2024-05-13-at-22.25.18-1600.jpg" alt="Glass parts — Epsilon S, stained glass by Arthemii Ionaere" loading="lazy" decoding="async"></picture></div>
                             <div class="tech-block__photo" style="--r:1.339"><picture><source type="image/webp" srcset="../../img/opt/2024-05-IMG_7517-800.webp 800w, ../../img/opt/2024-05-IMG_7517-1600.webp 1600w, ../../img/opt/2024-05-IMG_7517-2400.webp 2400w" sizes="(max-width: 640px) 80vw, 600px"><img src="../../img/opt/2024-05-IMG_7517-1600.jpg" alt="Soldering process — Epsilon S, stained glass by Arthemii Ionaere" loading="lazy" decoding="async"></picture></div>
                             <div class="tech-block__photo" style="--r:1.339"><picture><source type="image/webp" srcset="../../img/opt/2024-05-Screenshot-2024-05-13-at-21.58.05-800.webp 800w, ../../img/opt/2024-05-Screenshot-2024-05-13-at-21.58.05-1600.webp 1600w, ../../img/opt/2024-05-Screenshot-2024-05-13-at-21.58.05-2400.webp 2400w" sizes="(max-width: 640px) 80vw, 600px"><img src="../../img/opt/2024-05-Screenshot-2024-05-13-at-21.58.05-1600.jpg" alt="Assembly — Epsilon S, stained glass by Arthemii Ionaere" loading="lazy" decoding="async"></picture></div>

diff --git a/projects/index.html b/projects/index.html
@@ -217,7 +217,7 @@
                         </div>
                         <div class="tech-gallery">
                             <div class="tech-block__photo" style="--r:0.75"><picture><source type="image/webp" srcset="../img/opt/2024-02-23b3926c-da00-4b16-af7b-1eee929d9fb8-800.webp 800w, ../img/opt/2024-02-23b3926c-da00-4b16-af7b-1eee929d9fb8-1600.webp 1600w, ../img/opt/2024-02-23b3926c-da00-4b16-af7b-1eee929d9fb8-2400.webp 2400w" sizes="(max-width: 640px) 80vw, 600px"><img src="../img/opt/2024-02-23b3926c-da00-4b16-af7b-1eee929d9fb8-1600.jpg" alt="Finished form — Epsilon S, stained glass by Arthemii Ionaere" loading="lazy" decoding="async"></picture></div>
-                            <div class="tech-block__photo" style="--r:0.558"><picture><source type="image/webp" srcset="../img/opt/2024-05-Screenshot-2024-05-13-at-21.58.20-800.webp?v=2 800w, ../img/opt/2024-05-Screenshot-2024-05-13-at-21.58.20-1600.webp?v=2 1600w, ../img/opt/2024-05-Screenshot-2024-05-13-at-21.58.20-2400.webp?v=2 2400w" sizes="(max-width: 640px) 80vw, 600px"><img src="../img/opt/2024-05-Screenshot-2024-05-13-at-21.58.20-1600.jpg?v=2" alt="Detail — Epsilon S, stained glass by Arthemii Ionaere" loading="lazy" decoding="async"></picture></div>
+                            <div class="tech-block__photo" style="--r:0.558"><picture><source type="image/webp" srcset="../img/opt/2024-05-Screenshot-2024-05-13-at-21.58.20-800.webp?v=3 800w, ../img/opt/2024-05-Screenshot-2024-05-13-at-21.58.20-1600.webp?v=3 1600w, ../img/opt/2024-05-Screenshot-2024-05-13-at-21.58.20-2400.webp?v=3 2400w" sizes="(max-width: 640px) 80vw, 600px"><img src="../img/opt/2024-05-Screenshot-2024-05-13-at-21.58.20-1600.jpg?v=3" alt="Detail — Epsilon S, stained glass by Arthemii Ionaere" loading="lazy" decoding="async"></picture></div>
                             <div class="tech-block__photo" style="--r:1.333"><picture><source type="image/webp" srcset="../img/opt/2024-05-Screenshot-2024-05-13-at-22.25.18-800.webp 800w, ../img/opt/2024-05-Screenshot-2024-05-13-at-22.25.18-1600.webp 1600w, ../img/opt/2024-05-Screenshot-2024-05-13-at-22.25.18-2400.webp 2400w" sizes="(max-width: 640px) 80vw, 600px"><img src="../img/opt/2024-05-Screenshot-2024-05-13-at-22.25.18-1600.jpg" alt="Glass parts — Epsilon S, stained glass by Arthemii Ionaere" loading="lazy" decoding="async"></picture></div>
                             <div class="tech-block__photo" style="--r:1.339"><picture><source type="image/webp" srcset="../img/opt/2024-05-IMG_7517-800.webp 800w, ../img/opt/2024-05-IMG_7517-1600.webp 1600w, ../img/opt/2024-05-IMG_7517-2400.webp 2400w" sizes="(max-width: 640px) 80vw, 600px"><img src="../img/opt/2024-05-IMG_7517-1600.jpg" alt="Soldering process — Epsilon S, stained glass by Arthemii Ionaere" loading="lazy" decoding="async"></picture></div>
                             <div class="tech-block__photo" style="--r:1.339"><picture><source type="image/webp" srcset="../img/opt/2024-05-Screenshot-2024-05-13-at-21.58.05-800.webp 800w, ../img/opt/2024-05-Screenshot-2024-05-13-at-21.58.05-1600.webp 1600w, ../img/opt/2024-05-Screenshot-2024-05-13-at-21.58.05-2400.webp 2400w" sizes="(max-width: 640px) 80vw, 600px"><img src="../img/opt/2024-05-Screenshot-2024-05-13-at-21.58.05-1600.jpg" alt="Assembly — Epsilon S, stained glass by Arthemii Ionaere" loading="lazy" decoding="async"></picture></div>

diff --git a/de/index.html b/de/index.html
@@ -3084,7 +3084,7 @@
                             <div class="tech-block__row">
                                 <div class="tech-block__photo" style="--r:1.339"><picture><source type="image/webp" data-srcset="../img/opt/2024-05-Screenshot-2024-05-13-at-21.58.05-800.webp 800w, ../img/opt/2024-05-Screenshot-2024-05-13-at-21.58.05-1600.webp 1600w, ../img/opt/2024-05-Screenshot-2024-05-13-at-21.58.05-2400.webp 2400w" sizes="(max-width: 640px) 90vw, (max-width: 1024px) 50vw, 800px"><img data-src="../img/opt/2024-05-Screenshot-2024-05-13-at-21.58.05-1600.jpg" alt="Assembly — Epsilon S, stained glass by Arthemii Ionaere" loading="lazy" decoding="async"></picture></div>
                                 <div class="tech-block__photo" style="--r:0.75"><picture><source type="image/webp" data-srcset="../img/opt/2024-02-23b3926c-da00-4b16-af7b-1eee929d9fb8-800.webp 800w, ../img/opt/2024-02-23b3926c-da00-4b16-af7b-1eee929d9fb8-1600.webp 1600w, ../img/opt/2024-02-23b3926c-da00-4b16-af7b-1eee929d9fb8-2400.webp 2400w" sizes="(max-width: 640px) 90vw, (max-width: 1024px) 50vw, 800px"><img data-src="../img/opt/2024-02-23b3926c-da00-4b16-af7b-1eee929d9fb8-1600.jpg" alt="Finished form — Epsilon S, stained glass by Arthemii Ionaere" loading="lazy" decoding="async"></picture></div>
-                                <div class="tech-block__photo" style="--r:0.558"><picture><source type="image/webp" data-srcset="../img/opt/2024-05-Screenshot-2024-05-13-at-21.58.20-800.webp?v=2 800w, ../img/opt/2024-05-Screenshot-2024-05-13-at-21.58.20-1600.webp?v=2 1600w, ../img/opt/2024-05-Screenshot-2024-05-13-at-21.58.20-2400.webp?v=2 2400w" sizes="(max-width: 640px) 90vw, (max-width: 1024px) 50vw, 800px"><img data-src="../img/opt/2024-05-Screenshot-2024-05-13-at-21.58.20-1600.jpg?v=2" alt="Detail — Epsilon S, stained glass by Arthemii Ionaere" loading="lazy" decoding="async"></picture></div>
+                                <div class="tech-block__photo" style="--r:0.558"><picture><source type="image/webp" data-srcset="../img/opt/2024-05-Screenshot-2024-05-13-at-21.58.20-800.webp?v=3 800w, ../img/opt/2024-05-Screenshot-2024-05-13-at-21.58.20-1600.webp?v=3 1600w, ../img/opt/2024-05-Screenshot-2024-05-13-at-21.58.20-2400.webp?v=3 2400w" sizes="(max-width: 640px) 90vw, (max-width: 1024px) 50vw, 800px"><img data-src="../img/opt/2024-05-Screenshot-2024-05-13-at-21.58.20-1600.jpg?v=3" alt="Detail — Epsilon S, stained glass by Arthemii Ionaere" loading="lazy" decoding="async"></picture></div>
                             </div>
                         </div>
                     </div>

diff --git a/es/index.html b/es/index.html
@@ -3084,7 +3084,7 @@
                             <div class="tech-block__row">
                                 <div class="tech-block__photo" style="--r:1.339"><picture><source type="image/webp" data-srcset="../img/opt/2024-05-Screenshot-2024-05-13-at-21.58.05-800.webp 800w, ../img/opt/2024-05-Screenshot-2024-05-13-at-21.58.05-1600.webp 1600w, ../img/opt/2024-05-Screenshot-2024-05-13-at-21.58.05-2400.webp 2400w" sizes="(max-width: 640px) 90vw, (max-width: 1024px) 50vw, 800px"><img data-src="../img/opt/2024-05-Screenshot-2024-05-13-at-21.58.05-1600.jpg" alt="Assembly — Epsilon S, stained glass by Arthemii Ionaere" loading="lazy" decoding="async"></picture></div>
                                 <div class="tech-block__photo" style="--r:0.75"><picture><source type="image/webp" data-srcset="../img/opt/2024-02-23b3926c-da00-4b16-af7b-1eee929d9fb8-800.webp 800w, ../img/opt/2024-02-23b3926c-da00-4b16-af7b-1eee929d9fb8-1600.webp 1600w, ../img/opt/2024-02-23b3926c-da00-4b16-af7b-1eee929d9fb8-2400.webp 2400w" sizes="(max-width: 640px) 90vw, (max-width: 1024px) 50vw, 800px"><img data-src="../img/opt/2024-02-23b3926c-da00-4b16-af7b-1eee929d9fb8-1600.jpg" alt="Finished form — Epsilon S, stained glass by Arthemii Ionaere" loading="lazy" decoding="async"></picture></div>
-                                <div class="tech-block__photo" style="--r:0.558"><picture><source type="image/webp" data-srcset="../img/opt/2024-05-Screenshot-2024-05-13-at-21.58.20-800.webp?v=2 800w, ../img/opt/2024-05-Screenshot-2024-05-13-at-21.58.20-1600.webp?v=2 1600w, ../img/opt/2024-05-Screenshot-2024-05-13-at-21.58.20-2400.webp?v=2 2400w" sizes="(max-width: 640px) 90vw, (max-width: 1024px) 50vw, 800px"><img data-src="../img/opt/2024-05-Screenshot-2024-05-13-at-21.58.20-1600.jpg?v=2" alt="Detail — Epsilon S, stained glass by Arthemii Ionaere" loading="lazy" decoding="async"></picture></div>
+                                <div class="tech-block__photo" style="--r:0.558"><picture><source type="image/webp" data-srcset="../img/opt/2024-05-Screenshot-2024-05-13-at-21.58.20-800.webp?v=3 800w, ../img/opt/2024-05-Screenshot-2024-05-13-at-21.58.20-1600.webp?v=3 1600w, ../img/opt/2024-05-Screenshot-2024-05-13-at-21.58.20-2400.webp?v=3 2400w" sizes="(max-width: 640px) 90vw, (max-width: 1024px) 50vw, 800px"><img data-src="../img/opt/2024-05-Screenshot-2024-05-13-at-21.58.20-1600.jpg?v=3" alt="Detail — Epsilon S, stained glass by Arthemii Ionaere" loading="lazy" decoding="async"></picture></div>
                             </div>
                         </div>
                     </div>
